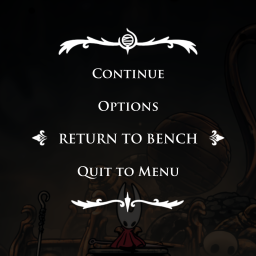
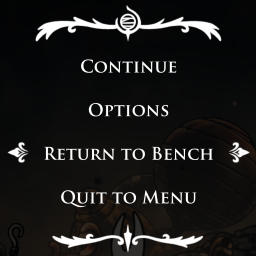
chore: bump v1.0.3

diff --git a/CHANGELOG.md b/CHANGELOG.md
@@ -1,5 +1,8 @@
 # Changelog
 
+## 1.0.3
+* feat: option text changed from 'RETURN TO BENCH' to 'Return to Bench'
+
 ## 1.0.2
 * fix: attempt to fix the issue of ineffective language entries
 * fix: black screen issue, as accessing the Language class too early caused the problem
